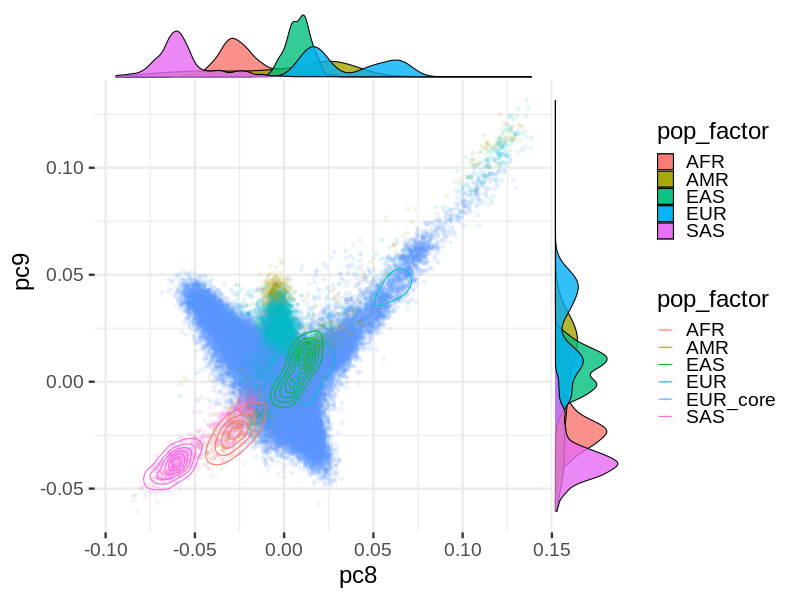
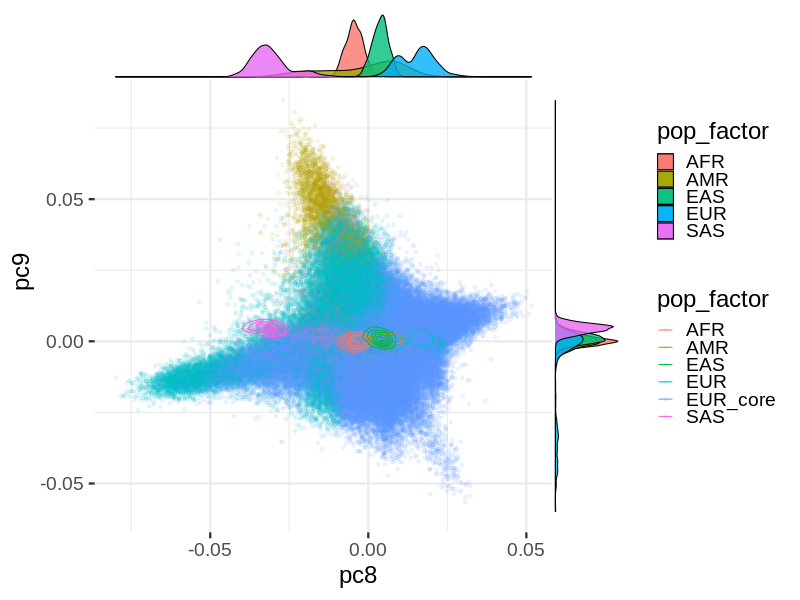
test run

diff --git a/qc-pipeline/docs/2024.07.01/mod8_psam_reconstruction.md b/qc-pipeline/docs/2024.07.01/mod8_psam_reconstruction.md
@@ -4,10 +4,10 @@
 ## Relationship inference
 | Relationship |   |
 | ------------ | - |
-| Duplicates or monozygotic twins| 3745 |
-| Parent-offspring| 138935 |
-| Full siblings| 25991 |
-| 2nd degree| 108 |
+| Duplicates or monozygotic twins| 3725 |
+| Parent-offspring| 138876 |
+| Full siblings| 26014 |
+| 2nd degree| 119 |
 | 3rd degree| 0 |
 | 4th degree| 0 |
 | Unrelated| 0 |
@@ -39,18 +39,18 @@
 ![](mod8_psam_reconstruction/children_sex_plot.png)
 ## Parental relationship
 83839 mother-child relationships expected.
-- 83531 (99.63%) recovered by genetic relationships.
-- 308 (0.37%) not recovered by genetic relationships.
+- 83504 (99.6%) recovered by genetic relationships.
+- 335 (0.4%) not recovered by genetic relationships.
 
 
 59358 father-child relationships expected.
-- 59080 (99.53%) recovered by genetic relationships.
-- 278 (0.47%) not recovered by genetic relationships.
+- 59050 (99.48%) recovered by genetic relationships.
+- 308 (0.52%) not recovered by genetic relationships.
 
 
-145825 parent-offspring relationships detected
-- 142611 (97.8%) match to registry.
-- 3214 (2.2%) do not match to registry.
+145764 parent-offspring relationships detected
+- 142554 (97.8%) match to registry.
+- 3210 (2.2%) do not match to registry.
 
 
 ## Exclusion

diff --git a/qc-pipeline/docs/2024.07.01/pca_1kg_moba.md b/qc-pipeline/docs/2024.07.01/pca_1kg_moba.md
@@ -42,7 +42,7 @@ Clustering of the 1KG after an 80-20 split using svm in the top 10 PCs.
 | Population | AFR | AMR | EAS | EUR | SAS |
 | - | -  |  -  |  -  |  -  |  -  |
 | AFR | 526 | 3 | 0 | 0 | 0 |
-| AMR | 1 | 267 | 0 | 10 | 0 |
+| AMR | 1 | 268 | 0 | 9 | 0 |
 | EAS | 0 | 0 | 403 | 0 | 0 |
 | EUR | 0 | 0 | 0 | 402 | 0 |
 | SAS | 0 | 0 | 0 | 0 | 391 |
@@ -53,7 +53,7 @@ Clustering of the 1KG after an 80-20 split using svm in the top 10 PCs.
 Clustering of MoBa participants with svm using the top 10 PCs and 1KG as training.
 | Population | AFR | AMR | EAS | EUR | EUR_core | SAS |
 | - | -  |  -  |  -  |  -  |  -  |  -  |
-| MoBa | 513 | 1787 | 1606 | 23668 | 200954 | 1090 |
+| MoBa | 1674 | 4277 | 1627 | 52061 | 168658 | 1321 |
 
 
 ![](plot/moba_pop_plot.png)

diff --git a/gwas/docs/2024.07.01/regenie_no_cojo/weight_birth/pop_children_pheno_birth_weight.md b/gwas/docs/2024.07.01/regenie_no_cojo/weight_birth/pop_children_pheno_birth_weight.md
@@ -1,0 +1,10 @@
+## birth_weight in children
+Association results by regenie for birth_weight in children.
+### Manhattan
+![](figures/pop_children_pheno_birth_weight_mh.png)
+### QQ plot
+![](figures/pop_children_pheno_birth_weight_qq.png)
+### Beta vs. Allele Frequency
+![](figures/pop_children_pheno_birth_weight_beta_af.png)
+### Standard error vs. Allele Frequency
+![](figures/pop_children_pheno_birth_weight_se_af.png)
